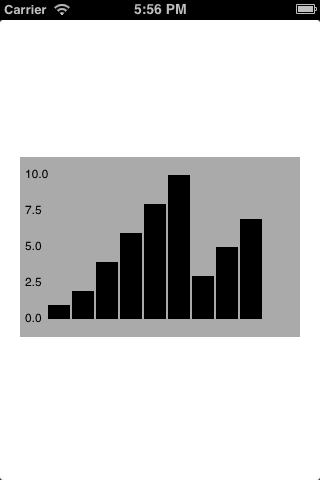
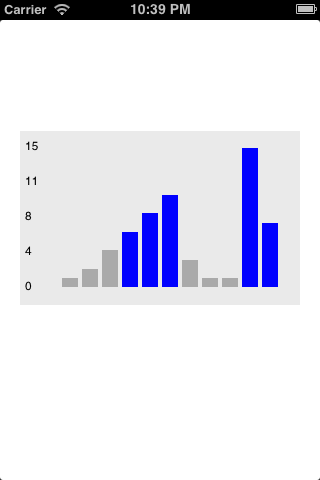
Updated screenshot, Added comments and showScale

diff --git a/RLSimpleBarGraph/RLSimpleBarGraph.m b/RLSimpleBarGraph/RLSimpleBarGraph.m
@@ -92,14 +92,15 @@
     
     
     //build scale
+    if(showScale){
         NSMutableArray *tmpScalesArr = [[NSMutableArray alloc] init];
         for(int i=0;i<scales;i++){
-                //beginning x,y
-                //x,y for MAX
-                //space accordingly.
+            //beginning x,y
+            //x,y for MAX
+            //space accordingly.
             NSInteger scaleX = self.bounds.size.width * 0.02;
             NSInteger currentBarY = (barY-12) - (((self.bounds.size.height) / scales) * i);
-//            NSInteger barHeight = (( / [barMax doubleValue]) * graphHeight);
+            //            NSInteger barHeight = (( / [barMax doubleValue]) * graphHeight);
             CGRect aRect = CGRectMake(scaleX, currentBarY, 50.0, 20.0);
             UILabel *aScale = [[UILabel alloc] initWithFrame:aRect];
             aScale.font = [UIFont systemFontOfSize:fontPoint];
@@ -117,8 +118,9 @@
             [tmpScalesArr addObject:aScale];
         }
         
-    //draw bars?
+        //draw bars?
         scaleViews = [[NSArray alloc] initWithArray:tmpScalesArr]; //save this
+    }
     }
 }
 

diff --git a/RLSimpleBarGraph/ViewController.m b/RLSimpleBarGraph/ViewController.m
@@ -25,8 +25,11 @@
 	// This is the only call you actually need, but it's just a plain black bar graph
     [yourRLSimpleBarGraph basicInit: @[@1,@2,@4,@6,@8,@10,@3,@1,@1,@15,@7]];
     
-    //extended things
+    //Now whichever bars are over 5.0 are color blue and lower are light gray
     [yourRLSimpleBarGraph setAchievementAt:5.0 setAchievedColor:[UIColor blueColor] andNotAchievedColor:[UIColor lightGrayColor]];
+    
+//    yourRLSimpleBarGraph.showScale = NO; //for no scale guides
+    
 }
 
 - (void)didReceiveMemoryWarning
